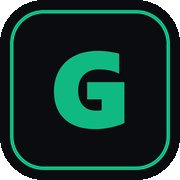
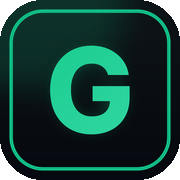
Rediseñar la G y agregar imagen propia para las previsualizaciones
La previsualización al compartir el link usaba icon-512.png, un icono
cuadrado estirado dentro de un contenedor grande, por lo que la G se
veia enorme y tosca.

Se agrega public/og-image.png (1200x630), una tarjeta apaisada con el
nombre, el rol y el dominio sobre la identidad visual del sitio (grilla
de fondo y glows esmeralda y cyan), y se la referencia en Open Graph
junto con las tarjetas de Twitter (summary_large_image).

La G se redibuja con Inter ExtraBold, la misma tipografia del sitio, en
lugar de una fuente del sistema. Suma un relleno con gradiente
esmeralda, un resplandor detras de la letra y un fondo degradado.
Verificada la legibilidad a 16, 32, 48 y 64 px.

diff --git a/app/layout.tsx b/app/layout.tsx
@@ -35,7 +35,13 @@ export const metadata: Metadata = {
     description: 'Portfolio de Gonzalo Orban - Estudiante de Ingeniería en Sistemas, Desarrollador Backend y Especialista en Ciberseguridad.',
     locale: 'es_AR',
     type: 'website',
-    images: [{ url: '/icon-512.png', width: 512, height: 512, alt: 'Gonzalo Orban' }],
+    images: [{ url: '/og-image.png', width: 1200, height: 630, alt: 'Gonzalo Orban - Backend & Ciberseguridad' }],
+  },
+  twitter: {
+    card: 'summary_large_image',
+    title: 'Gonzalo Orban | Portfolio',
+    description: 'Portfolio de Gonzalo Orban - Desarrollador Backend y Especialista en Ciberseguridad.',
+    images: ['/og-image.png'],
   },
 }
 
